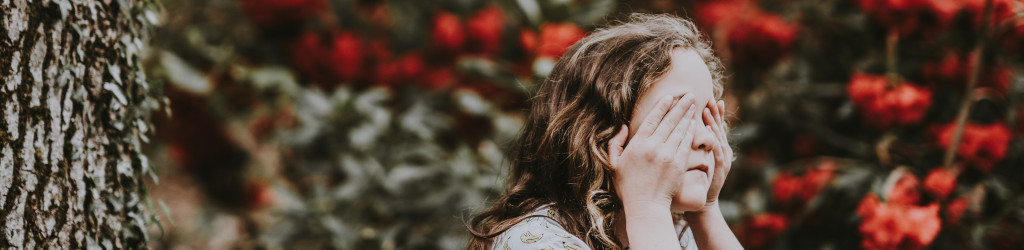
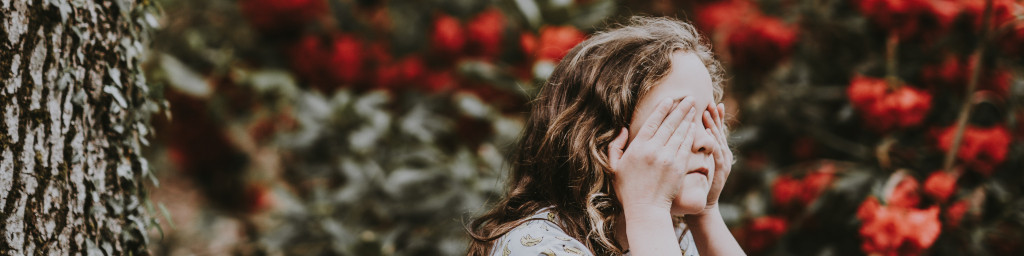
header images

diff --git a/src/pages/about.md b/src/pages/about.md
@@ -2,7 +2,7 @@
 title: About
 date: 2019-06-25T19:57:58.959Z
 description: about
-featuredImage: './about.png'
+featuredImage: './about.jpg'
 ---
 Hey, 
 
